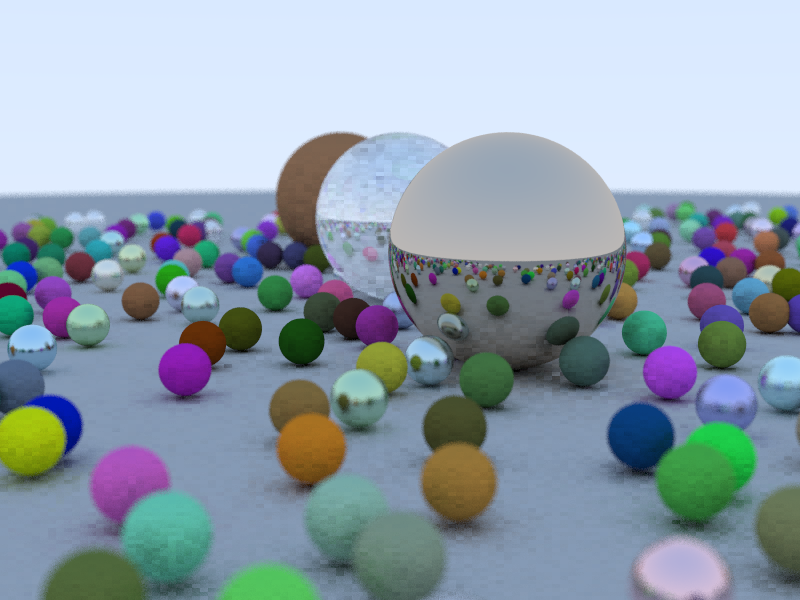
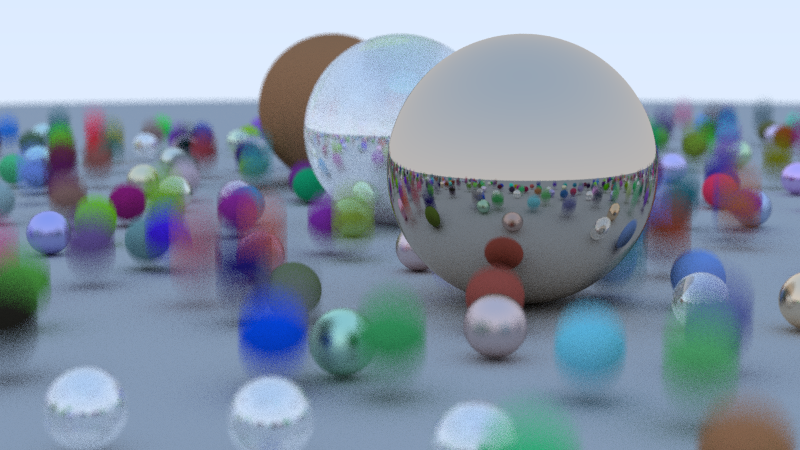
next week final image more or less done

diff --git a/include/nextweek/external.hpp b/include/nextweek/external.hpp
@@ -14,6 +14,7 @@
 #include <thrust/device_ptr.h>
 #include <thrust/device_vector.h>
 #include <thrust/random.h>
+#include <thrust/swap.h>
 #include <time.h>
 
 #include <math.h>

diff --git a/README.md b/README.md
@@ -47,8 +47,9 @@ All of the images below are realized with the following specs:
 - Memory Bus Width (bits): 128
 - Peak Memory Bandwidth (GB/s): 80.16
 
+WARNING: MOST OF THE TIMINGS HERE ARE WRONG, see `Known Issues`.
 
-Renders the screenshot below at 800 x 600 in 32.3065 seconds with 50 samples
+Renders the screenshot below at 800 x 600 in 64.8672 seconds with 50 samples
 per pixel and 50 bounces per ray.
 
 <img src="images/final.png" alt="final screenshot"/>
@@ -69,6 +70,11 @@ The one in below at 640x360 in 106.365 seconds with 500 samples and 500
 bounces
 <img src="images/cornell_smoke.png" alt="final screenshot fifth version"/>
 
+The one in below at 480x270 in 101.325 seconds with 40 samples and 20
+bounces
+<img src="images/final5.png" alt="final screenshot sixth version"/>
+
+
 ## Features
 
 - Most of what you get in Ray Tracing In One Weekend and in Next Week.
@@ -79,16 +85,31 @@ bounces
 
 - Constant Medium Volume Rendering
 
+- A simple GPU friendly acceleration structure, a.k.a DA List, Foley et. al.,
+  2013, p. 1081.
+
 ## Planned
 
 - Asset loading with assimp.
-- A simple acceleration structure.
 - Hopefully pdf handling in near feature.
 - Background handling.
 
 
 ## Known Issues
 
-- A Better RNG.
+I managed to fix the rng problem around nw-final branch.  It was such a simple
+fix that i kind of feel stupid to let it sit there for so long.
+
+For previous branches, just change the line
+
+- `rcolor += ray_color(r, world, randState, bounceNb);` to
+
+- `rcolor += ray_color(r, world, &localS, bounceNb);`
+
+This increased significantly the rendering times so all of the rendering times
+above are compromised. By significantly, I mean it increases about two times
+more. 
+
+
 
 Cheers
